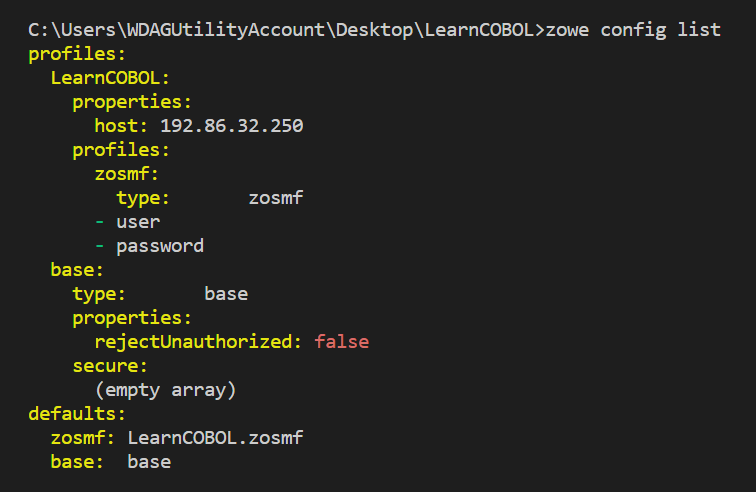
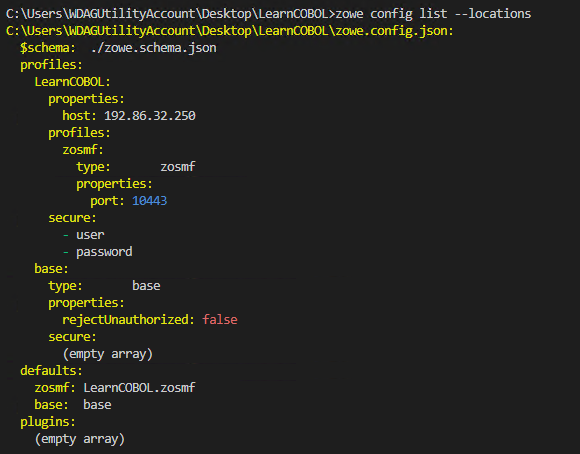
Update Zowe CLI lab images and general fixes

Changed region(s): [[0.0, 0.0, 0.9621, 0.9868], [0.2793, 0.3392, 0.4034, 0.4317]]

diff --git a/COBOL Programming Course #2 - Learning COBOL/COBOL Programming Course #2 - Learning COBOL.md b/COBOL Programming Course #2 - Learning COBOL/COBOL Programming Course #2 - Learning COBOL.md
@@ -79,7 +79,7 @@ From a software engineering perspective, that even makes sense.  Rewrites are al
 
 # Basic COBOL
 
-This chapter introduces the basics of COBOL syntax. It then demonstrates how to view and run a basic COBOL program in VSCode.
+This chapter introduces the basics of COBOL syntax. It then demonstrates how to view and run a basic COBOL program in VS Code.
 
 
 - **COBOL characteristics**
@@ -370,9 +370,9 @@ Three ‘Enterprise COBOL for z/OS” manuals are referenced throughout the chap
 
 ## Lab
 
-In this lab exercise, you will connect to an IBM Z system, view a simple COBOL hello world program in VSCode, submit JCL to compile the COBOL program, and view the output.  Refer to "Installation of VSCode and extensions" to configure VSCode if you have not already done so. You can either use IBM Z Open Editor and Zowe Explorer, or Code4z.
+In this lab exercise, you will connect to an IBM Z system, view a simple COBOL hello world program in VS Code, submit JCL to compile the COBOL program, and view the output.  Refer to "Installation of VS Code and extensions" to configure VS Code if you have not already done so. You can either use IBM Z Open Editor and Zowe Explorer, or Code4z.
 
-1. The lab assumes installation of VSCode with either IBM Z Open Editor and Zowe Explorer extensions, as shown in Figure  2a, or the Code4z extension pack, as shown in Figure  2b.
+1. The lab assumes installation of VS Code with either IBM Z Open Editor and Zowe Explorer extensions, as shown in Figure  2a, or the Code4z extension pack, as shown in Figure  2b.
 
    Click the **Extensions** icon. If you installed IBM Z Open Editor and Zowe Explorer, the list should include:
 
@@ -381,7 +381,7 @@ In this lab exercise, you will connect to an IBM Z system, view a simple COBOL h
 
    ![](Images/image044.png)
 
-   *Figure  2a.  The IBM Z Open Editor and Zowe Explorer VSCode extensions*
+   *Figure  2a.  The IBM Z Open Editor and Zowe Explorer VS Code extensions*
 
    If you installed Code4z, the list should include:
 
@@ -398,7 +398,7 @@ In this lab exercise, you will connect to an IBM Z system, view a simple COBOL h
 
    ![](Images/image044b.png)
 
-   *Figure  2b.  The Code4z package of VSCode extensions.*
+   *Figure  2b.  The Code4z package of VS Code extensions.*
 
    **Note:** If your list contains both Z Open Editor and COBOL Language Support, disable one of them, by clicking on the **cog** icon next to the extension in the extensions list, and selecting **disable**.
 
@@ -420,7 +420,7 @@ In this lab exercise, you will connect to an IBM Z system, view a simple COBOL h
 
    *Figure  5.  Inside the Team configuration file*
 
-5. Now back on your VSCode window, select the Explorer tab, and press the "Open folder" button in the left bar.
+5. Now back on your VS Code window, select the Explorer tab, and press the "Open folder" button in the left bar.
 
    ![](Images/vscode-add-folder.png)
 
@@ -554,7 +554,7 @@ In this lab exercise, you will connect to an IBM Z system, view a simple COBOL h
 
 25.   Do note that you will need to open the **LearnCOBOL** folder every time you connect to the system, repeating step 5 to 7. To enable your connection profile to be accessible anywhere on your machine, you will need to move your configuration files (i.e. `zowe.config.json` and `zowe.schema.json`) from the LearnCOBOL folder to the Zowe global location. By default this is `C:\Users\%USERNAME%\.zowe` for Windows or `~/.zowe` for Linux and macOS.
 
-25.   The following URL is another excellent document describing the above VSCode and Zowe Explore details with examples:
+26.   The following URL is another excellent document describing the above VS Code and Zowe Explorer details with examples:
       [https://marketplace.visualstudio.com/items?itemName=Zowe.vscode-extension-for-zowe](https://marketplace.visualstudio.com/items?itemName=Zowe.vscode-extension-for-zowe)
 
 ## Lab - Zowe CLI & Automation
@@ -563,18 +563,18 @@ In this lab exercise, you will use the Zowe CLI to automate submitting the JCL t
 ### Zowe CLI - Interactive Usage
 In this section, we will use the Zowe CLI interactively to view data set members, submit jobs, and review spool output.
 
-1. Within VS Code, open the integrated terminal (Terminal -> New Terminal). In the terminal, issue `zowe --version` to confirm the Zowe CLI is installed as depicted in the following figure. If it is not installed, please refer to the section on the "Installation of Zowe CLI and Plug-ins." Also, notice that the default shell selected (outlined in red) is `bash`. I would recommend selecting the default shell as either `bash` or `cmd` for this lab.
+1. Within VS Code, open the integrated terminal (Terminal -> New Terminal). In the terminal, issue `zowe --version` to confirm the Zowe CLI is installed as depicted in the following figure. If it is not installed, please refer to the section on the "Installation of Zowe CLI and Plug-ins." Also, notice that the default shell selected is `cmd`. I would recommend selecting the default shell as either `bash` or `cmd` for this lab.
 
    ![](Images/zowe/zowe-cli-version.png)
 
    *Figure  26.  `zowe --version` command in VS Code Integrated Terminal*
 
-2. In order for Zowe CLI to interact with z/OSMF the CLI must know the connection details such as host, port, username, password, etc. While you could enter this information on each command, Zowe provides the ability to store this information in configurations file. 
+2. In order for Zowe CLI to interact with z/OSMF the CLI must know the connection details such as host, port, username, password, etc. While you could enter this information on each command, Zowe provides the ability to store this information in configuration files. 
 
    If you have done the configuration in the first lab, you will have a folder containing your team configuration files. Make sure that your terminal is at that location and issue the following command.
 
    ```
-   zowe config list
+   zowe config list --locations
    ```
 
    The following figure demonstrates the outcome of the command.
@@ -605,24 +605,18 @@ In this section, we will use the Zowe CLI interactively to view data set members
 
    *Figure  28.  zowe files list ds and am commands*
 
-5. Next, we will download our COBOL and JCL data set members to our local machine. First, create and open a new folder in your file explorer. Note that you could also create a workspace to manage multiple projects. See the following figure for help:
-
-   ![](Images/vscode-add-folder.png)
-
-   *Figure  29.  File explorer view to demonstrate opening a new folder*
-
-   Once you have an empty folder opened, return to the integrated terminal, ensure you are in your folder, and issue commands similar to:
+5. Next, we will download our COBOL and JCL data set members to our local machine. From the terminal, issue commands similar to:
 
    ```
    zowe files download am "Z99998.CBL" -e ".cbl"
    zowe files download am "Z99998.JCL" -e ".jcl"
    ```
 
-   Then open `hello.cbl` in your file explorer. A completed example is shown in the following figure:
+   A completed example is shown in the following figure:
 
    ![](Images/zowe/zowe-files-download-am.png)
 
-   *Figure  30.  Download and view data set members using the CLI*
+   *Figure  29.  Download and view data set members using the CLI*
 
 6. Next, we will submit the job in member `Z99998.JCL(HELLO)`. To submit the job, wait for it to complete, and view all spool content, issue:
 
@@ -639,22 +633,22 @@ In this section, we will use the Zowe CLI interactively to view data set members
    To list spool files associated with this job id, issue:
 
    ```
-   zowe jobs list sfbj JOB09413
+   zowe jobs list sfbj JOB04064
    ```
 
-   where `JOB09413` was returned from the previous command.
+   where `JOB04064` was returned from the previous command.
     
    To view a specific spool file (COBRUN:SYSOUT), issue:
 
    ```
-   zowe jobs view sfbi JOB09413 104
+   zowe jobs view sfbi JOB04064 105
    ```
 
-   where `JOB09413` and `104` are obtained from the previous commands.
+   where `JOB04064` and `105` are obtained from the previous commands.
 
    ![](Images/zowe/zowe-jobs-submit-ds-and-view-spool-output.png)
 
-   *Figure  31.  Submit a job, wait for it to complete, then list spool files for the job, and view a specific spool file*
+   *Figure  30.  Submit a job, wait for it to complete, then list spool files for the job, and view a specific spool file*
 
    If desired, you can also easily submit a job, wait for it to complete, and download the spool content using the following command (see the following figure for the completed state):
 
@@ -664,22 +658,22 @@ In this section, we will use the Zowe CLI interactively to view data set members
 
    ![](Images/zowe/zowe-jobs-submit-ds-and-download-spool-output.png)
 
-   *Figure  32.  Submit a job, wait for it to complete, download and view spool files*
+   *Figure  31.  Submit a job, wait for it to complete, download and view spool files*
 
    The Zowe CLI was built with scripting in mind. For example, you can use the `--rfj` flag to receive output in JSON format for easy parsing. See the next figure for an example.
 
    ![](Images/zowe/zowe-jobs-submit-ds-rfj.png)
 
-   *Figure  33.  The `--rfj` flag allows for easy programmatic usage*
+   *Figure  32.  The `--rfj` flag allows for easy programmatic usage*
 
 ### Zowe CLI - Programmatic Usage
 In this section, we will leverage the Zowe CLI programmatically to automate submitting the JCL to compile, link, and run the COBOL program and downloading the spool output. Once you have the content locally you could use any number of distributed scripting and testing tools to eliminate the need to manually review the spool content itself. Historically, in Mainframe, we use REXX Exec, CLIST, etc. for automation, but today we are going to use CLI and distributed tooling.
 
-1. Since we already have Node and npm installed, let’s just create a node project for our automation. To initialize a project, issue `npm init` in your project’s folder and follow the prompts. You can accept the defaults by just pressing enter. Only the description and author fields should be changed. See the following figure.
+1. Since we already have Node and npm installed, let’s just create a node project for our automation. To initialize a project, issue `npm init` in your project’s folder and follow the prompts. You can accept the defaults by just pressing enter. Only the description and author fields should be changed. See the following figure. Do note that to use the team configuration files as mentioned on previous section, this project must be a subdirectory of the **LearnCOBOL** folder.
 
    ![](Images/npm/npm-init-example.png)
 
-   *Figure  34.  Use of `npm init` to create `package.json` for the project*
+   *Figure  33.  Use of `npm init` to create `package.json` for the project*
 
 2. Now that we have our `package.json` simply replace the `test` script with a `clg` script that runs the following zowe command (replace `Z99998` with your high-level qualifier):
 
@@ -691,13 +685,13 @@ In this section, we will leverage the Zowe CLI programmatically to automate subm
 
    ![](Images/npm/npm-run-clg.png)
 
-   *Figure  35.  Final `package.json` and `npm run clg` execution*
+   *Figure  34.  Final `package.json` and `npm run clg` execution*
 
 3. If you prefer a graphical trigger, you can leverage VS Code as shown in the following figure. Essentially, the CLI enables you to quickly build your own buttons for your custom z/OS tasks. You could also invoke a script rather than a single command to accommodate more complex scenarios.
 
    ![](Images/npm/npm-run-clg-button.png)
 
-   *Figure  36.  `clg` task triggered via button*
+   *Figure  35.  `clg` task triggered via button*
 
 \newpage
 
@@ -1444,9 +1438,9 @@ Again, the READ-RECORD paragraph executes the COBOL READ statement, resulting in
 
 The lab associated with this chapter demonstrates the ‘end-of-file’ COBOL coding technique for reading all data records from a sequential file. If a step has an asterisk (\*) next to it, it will have a hint associated at the end of the lab content.
 
-1. If not already, open VSCode and select Zowe Explorer from the left sidebar.
+1. If not already, open VS Code and select Zowe Explorer from the left sidebar.
 
-**Note**: If you are opening a new instance of VSCode (i.e. you closed out of it after the previous usage), you may need to 'Select a filter' again. You can do so by selecting the search icon ![](Images/image132.png) next to your named connection in the DATA SETS section and then reselecting the filter previously used. It should be in the listed filters after you have selected the search symbol.
+**Note**: If you are opening a new instance of VS Code (i.e. you closed out of it after the previous usage), you may need to 'Select a filter' again. You can do so by selecting the search icon ![](Images/image132.png) next to your named connection in the DATA SETS section and then reselecting the filter previously used. It should be in the listed filters after you have selected the search symbol.
 
  
 
@@ -2122,7 +2116,7 @@ In summary, this chapter should provide the necessary foundation to understand s
 
 This lab utilizes COBOL program CBL0033, located within your id.CBL data set, as well as JCL job CBL0033J, located within your id.JCL data set.  The JCL jobs are used to compile and execute the COBOL programs, as discussed in previous chapters.
 
-#### Using VSCode and Zowe Explorer
+#### Using VS Code and Zowe Explorer
 
 1. Take a moment and look over the source code of the COBOL program provided: CBL0033. 
 
@@ -2275,7 +2269,7 @@ PRINT-REC is opened for output resulting in PRINT-REC FROM following through wit
 
 This lab utilizes two COBOL programs, CBL0004, and CBL0005, located within your id.CBL data set, as well as two JCL jobs, CBL0004J and CBL0005J, located within your id.JCL data set.  The JCL jobs are used to compile and execute the COBOL programs, as discussed in previous chapters.
 
-#### Using VSCode and Zowe Explorer
+#### Using VS Code and Zowe Explorer
 
 1. Submit job: CBL0004J
 
@@ -2673,9 +2667,9 @@ The sign condition determines whether the algebraic value of a numeric operand i
 
 ## Lab
 
-This lab requires two COBOL programs, CBL0006 and CBL0007, and two respective JCL Jobs, CBL0006J and CBL0007J, to compile and execute the COBOL programs. All of which are provided to you in your VSCode - Zowe Explorer.
+This lab requires two COBOL programs, CBL0006 and CBL0007, and two respective JCL Jobs, CBL0006J and CBL0007J, to compile and execute the COBOL programs. All of which are provided to you in your VS Code - Zowe Explorer.
 
-#### Using VSCode and Zowe Explorer:
+#### Using VS Code and Zowe Explorer:
 
 1. Take a moment and look over the source code of the two COBOL programs provided: CBL0006 and CBL0007. 
 
@@ -2900,9 +2894,9 @@ The WRITE-TLIMIT-TBALANCE paragraph shown in Figure  5. is positioned within the
 
 ## Lab
 
-This lab requires two COBOL programs, CBL0008 and CBL0009, and two respective JCL Jobs, CBL0008J and CBL0009J, to compile and execute the COBOL programs. All of which are provided to you in your VSCode - Zowe Explorer.
+This lab requires two COBOL programs, CBL0008 and CBL0009, and two respective JCL Jobs, CBL0008J and CBL0009J, to compile and execute the COBOL programs. All of which are provided to you in your VS Code - Zowe Explorer.
 
-#### Using VSCode and Zowe Explorer
+#### Using VS Code and Zowe Explorer
 
 1. Take a moment and look over the source code of the two COBOL programs provided: CBL0008 and CBL0009.
 
@@ -3034,7 +3028,7 @@ Many of the previous COBOL lab programs you have worked with thus far are readin
 
 What happens when an internal packed decimal field is not described using COMP-3? Without using COMP-3 to describe the field, the COBOL program treats the data as DISPLAY data (EBCDIC format). This lab demonstrates what happens during program execution without using COMP-3.
 
-#### Using VSCode and Zowe Explorer
+#### Using VS Code and Zowe Explorer
 
 1. Submit the job, id.JCL(CBL0010J)
 
@@ -3270,9 +3264,9 @@ Reference modification, LNAME(1:1), would return only the first character of dat
 
 This lab contains data that includes a last name, where last name is all upper-case.  It demonstrates the use of intrinsic functions together with reference modification to lower-case the last name characters, except the first character of the last name.
 
-This lab requires two COBOL programs, CBL0011 and CBL0012, and two respective JCL Jobs, CBL0011J and CBL0012J, to compile and execute the COBOL programs. All of which are provided to you in your VSCode - Zowe Explorer.
+This lab requires two COBOL programs, CBL0011 and CBL0012, and two respective JCL Jobs, CBL0011J and CBL0012J, to compile and execute the COBOL programs. All of which are provided to you in your VS Code - Zowe Explorer.
 
-#### Using VSCode and Zowe Explorer
+#### Using VS Code and Zowe Explorer
 
 1. Submit job, CBL0011J.
 
